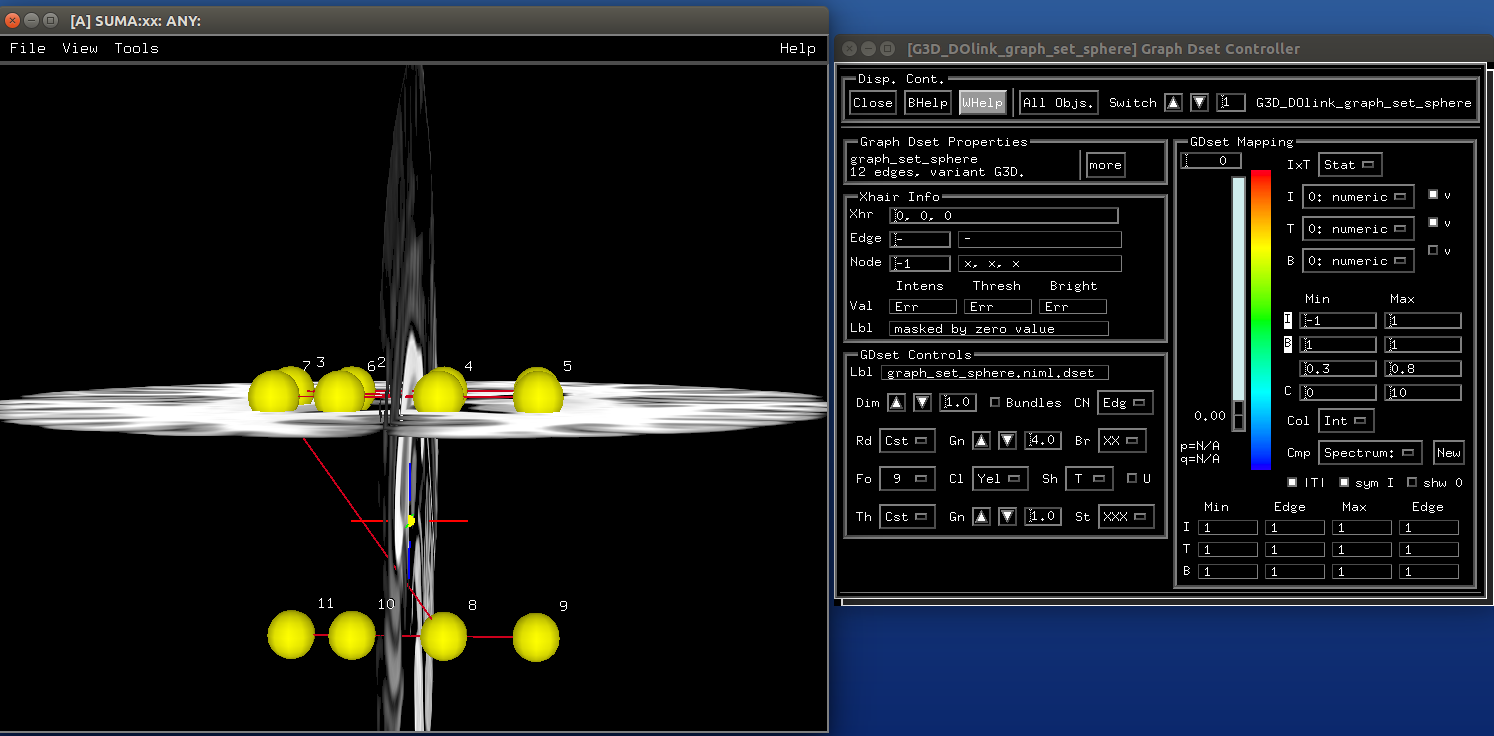
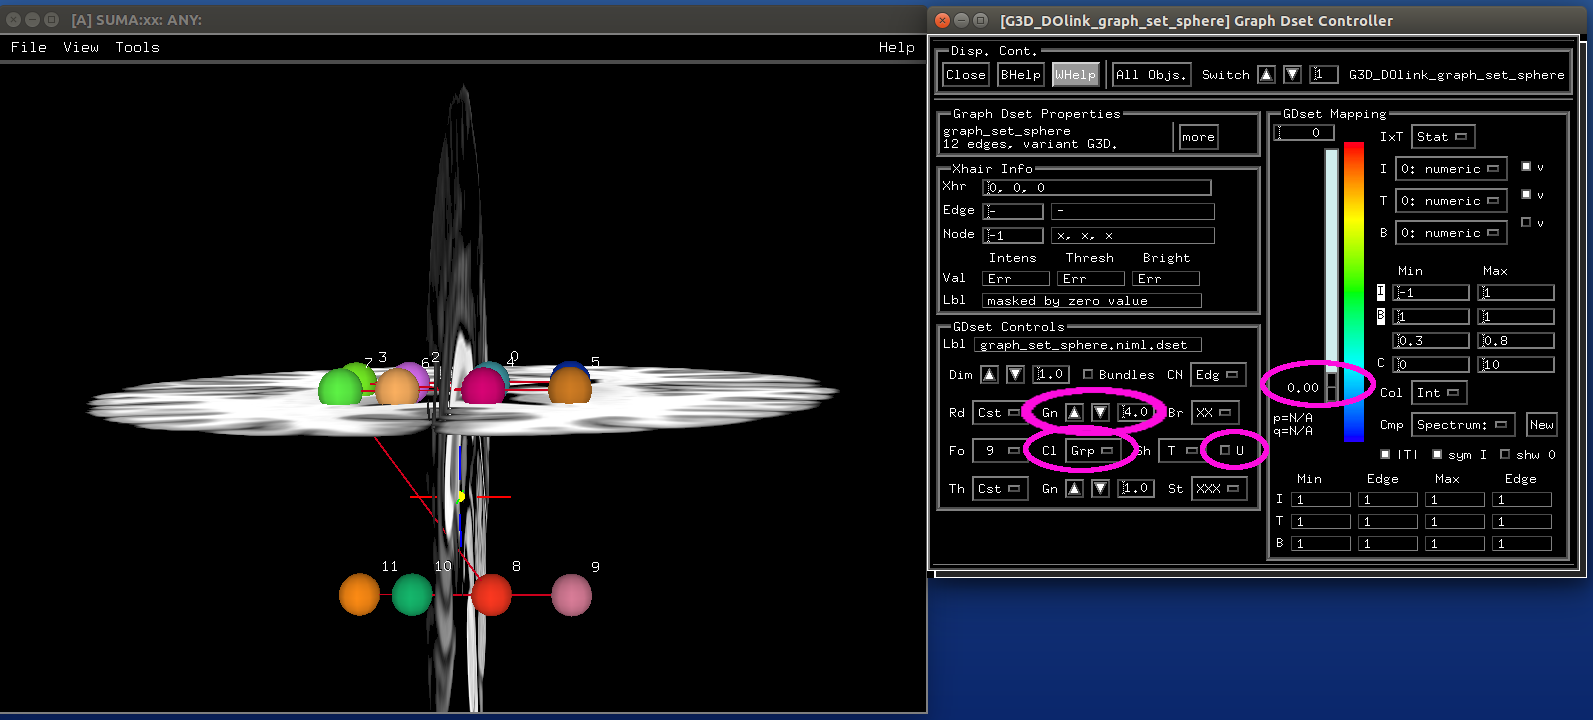
docs: updating SUMA sphere demo

Changed region(s): [[0.0, 0.0, 1.0, 1.0]]

diff --git a/tutorials/rois_corr_vis/suma_spheres.rst b/tutorials/rois_corr_vis/suma_spheres.rst
@@ -25,7 +25,7 @@ and shows how to:
 Survey of approaches
 --------------------
 
-Spherical objects can be rendered in 3 general ways in ``suma`` (plus
+Spherical objects can be rendered in 4 general ways in ``suma`` (plus
 some extra variants, noted in the script/examples).
 
 #. **NIDO: NeuroImaging Displayable Objects**
@@ -39,7 +39,7 @@ some extra variants, noted in the script/examples).
    <https://afni.nimh.nih.gov/afni/community/board/read.php?1,157722,157722#msg-157722>`_
    was for fun, but it does have a serious use - like yours.
 
-#. **Manufactured spherical surfaces**
+#. **Manufactured spherical surfaces (2 main kinds)**
 
    These are all clickable. That means clicking on a sphere identifies
    the node in some way. The coordinate can also be shared with the
@@ -86,7 +86,7 @@ some extra variants, noted in the script/examples).
    sphere. Show in suma with ``suma -vol myspheres+orig``. Render with
    ``suma`` or even with ``afni``'s Render plugin.
 
-#. *Bonus method:* **Graph nodes object**
+#. **Graph nodes object**
 
    SUMA can also display "graphs": essentially, nodes connected by
    edges.  The nodes themselves are spheres, and thus they also count
@@ -121,6 +121,11 @@ Files provided here include:
 * **sphere_coords.1D**
     a list of *(x, y, z)* coordinates that represent the centers of
     some spheres.
+
+* **ROI_i256.1D.cmap**
+    a "colormap", here a list of (R, G, B) color specifications.  This
+    one was made by hitting the "w" over the ROI_i256 colorbar in the
+    SUMA object controller.
 
 * **demo_suma_spheres.tcsh**
     a script file to run all the commands, making spheres and
@@ -520,6 +525,18 @@ anatomical) for the demo.
 
            suma -gdset graph_set_sphere.niml.dset \
                -vol ${templ_full} 
+
+       Pro-tips:
+       + Open the object controller (ctrl+s).
+       + Go to the 'Cl'=color dropdown menu in the "GDset Controls" on
+         the lefthand side, and select 'Grp' for coloration by "group"
+         (by default, all spheres are 'Yel'=yellow).
+       + Increase the radius of the spheres with the arrows by the
+         'Gn'=gain button.
+       + You can make the edge lines go away if you raise the
+         threshold by the color slider (>1, in this case); to still
+         see the spheres after this, select the square in the GDset
+         Controls by the 'U'=unconnected button.
 
    ++ -----------------------------------------------------------------
 
